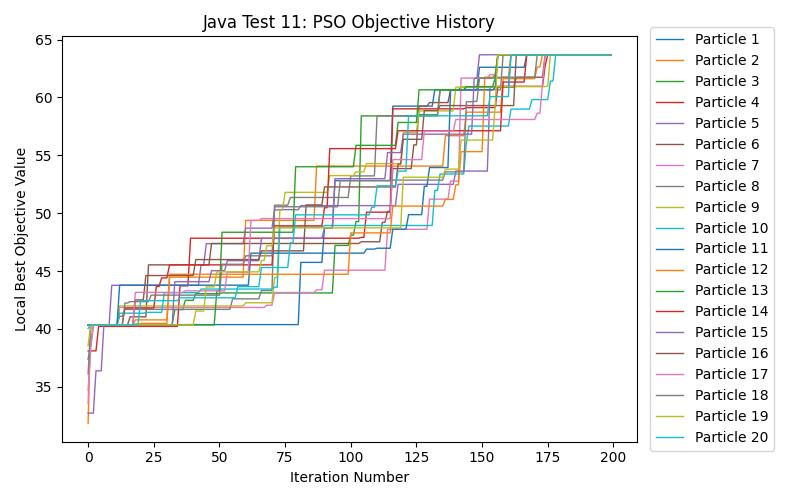
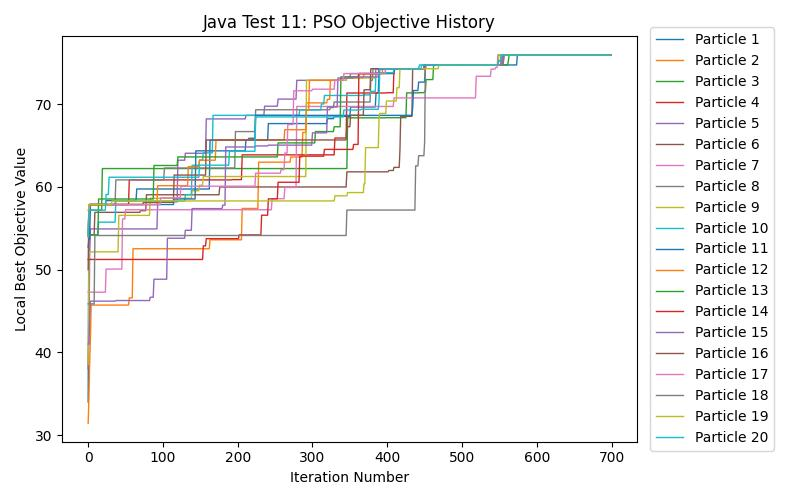
use blackholes for java benchmarks

diff --git a/psoscheduler-java/src/main/java/syslab/cloudcomputing/benchmarks/PSOBenchmark.java b/psoscheduler-java/src/main/java/syslab/cloudcomputing/benchmarks/PSOBenchmark.java
@@ -1,6 +1,7 @@
 package syslab.cloudcomputing.benchmarks;
 
 import org.openjdk.jmh.annotations.*;
+import org.openjdk.jmh.infra.Blackhole;
 import org.openjdk.jmh.runner.Runner;
 import org.openjdk.jmh.runner.options.Options;
 import org.openjdk.jmh.runner.options.OptionsBuilder;
@@ -12,7 +13,6 @@ import syslab.cloudcomputing.simulation.Task;
 import syslab.cloudcomputing.simulation.VirtualMachine;
 import syslab.cloudcomputing.simulation.Workload;
 
-import java.util.HashMap;
 import java.util.concurrent.TimeUnit;
 
 public class PSOBenchmark {
@@ -44,8 +44,8 @@ public class PSOBenchmark {
   @Benchmark
   @BenchmarkMode(Mode.AverageTime)
   @OutputTimeUnit(TimeUnit.SECONDS)
-  public HashMap<Task, VirtualMachine> runSinglePSO(MyState state) {
+  public void runSinglePSO(MyState state, Blackhole blackhole) {
     PSOSwarm swarm = new PSOSwarm(state.dataCenter, state.workload);
-    return swarm.runPSOAlgorithm();
+    blackhole.consume(swarm.runPSOAlgorithm());
   }
 }

diff --git a/psoscheduler-java/src/main/java/syslab/cloudcomputing/pso/PSOSwarm.java b/psoscheduler-java/src/main/java/syslab/cloudcomputing/pso/PSOSwarm.java
@@ -13,7 +13,7 @@ public class PSOSwarm {
   private final double w1 = 0.9;
   private final double w2 = 0.4;
 
-  private final int maxIterations = 200;
+  private final int maxIterations = 700;
   private static final int nSwarms = 5;
   private static final int nParticles = 20;
 
@@ -41,7 +41,7 @@ public class PSOSwarm {
   private void initializeSwarm(int nParticles) {
     this.particles = new ArrayList<Particle>();
     for (int i = 0; i < nParticles; i++) {
-      Particle particle = new Particle(this.dataCenter, this.workload, Particle.InitializationStrategy.RANDOM);
+      Particle particle = new Particle(this.dataCenter, this.workload, Particle.InitializationStrategy.HIGH_TASK_HIGH_VM);
       this.particles.add(particle);
     }
 

diff --git a/psoscheduler-java/src/main/java/syslab/cloudcomputing/benchmarks/MatrixOpsBenchmark.java b/psoscheduler-java/src/main/java/syslab/cloudcomputing/benchmarks/MatrixOpsBenchmark.java
@@ -3,6 +3,7 @@ package syslab.cloudcomputing.benchmarks;
 import java.util.concurrent.TimeUnit;
 
 import org.openjdk.jmh.annotations.*;
+import org.openjdk.jmh.infra.Blackhole;
 import org.openjdk.jmh.runner.Runner;
 import org.openjdk.jmh.runner.options.Options;
 import org.openjdk.jmh.runner.options.OptionsBuilder;
@@ -34,8 +35,8 @@ public class MatrixOpsBenchmark {
 
   @Benchmark
   @BenchmarkMode(Mode.AverageTime)
-  @OutputTimeUnit(TimeUnit.NANOSECONDS)
-  public Matrix runSingleSubtract(MyState state) {
-    return state.m1.subtract(state.m2);
+  @OutputTimeUnit(TimeUnit.MICROSECONDS)
+  public void runSingleSubtract(MyState state, Blackhole blackhole) {
+    blackhole.consume(state.m1.subtract(state.m2));
   }
 }
